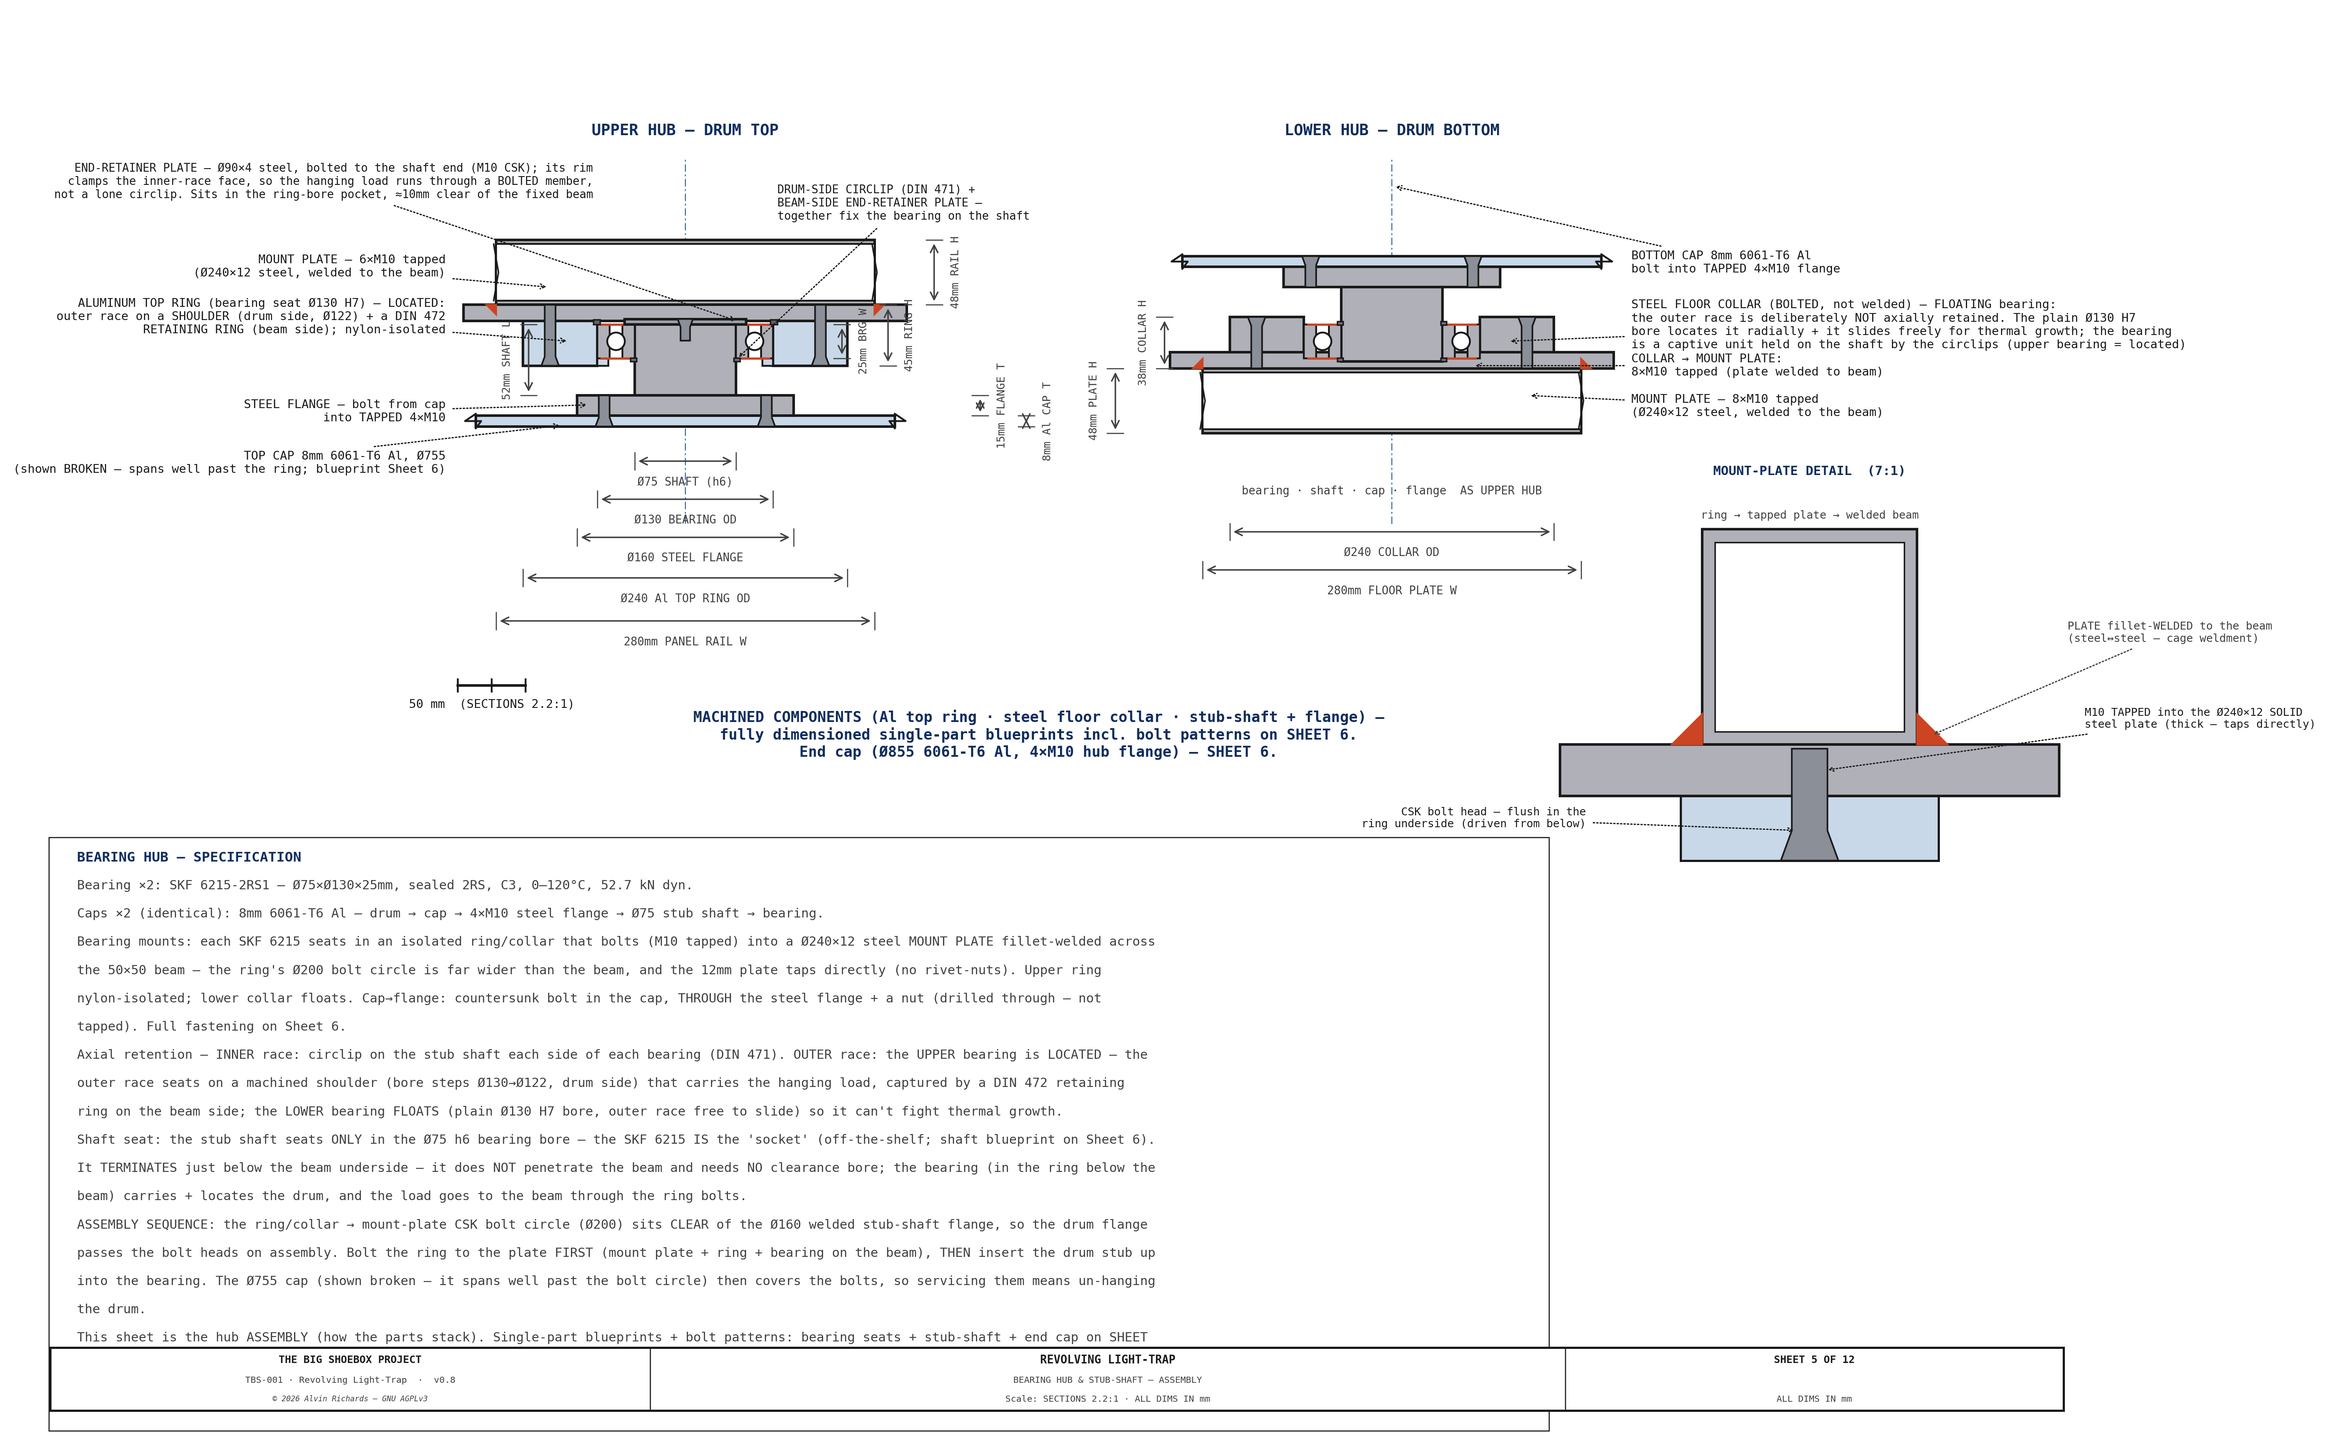
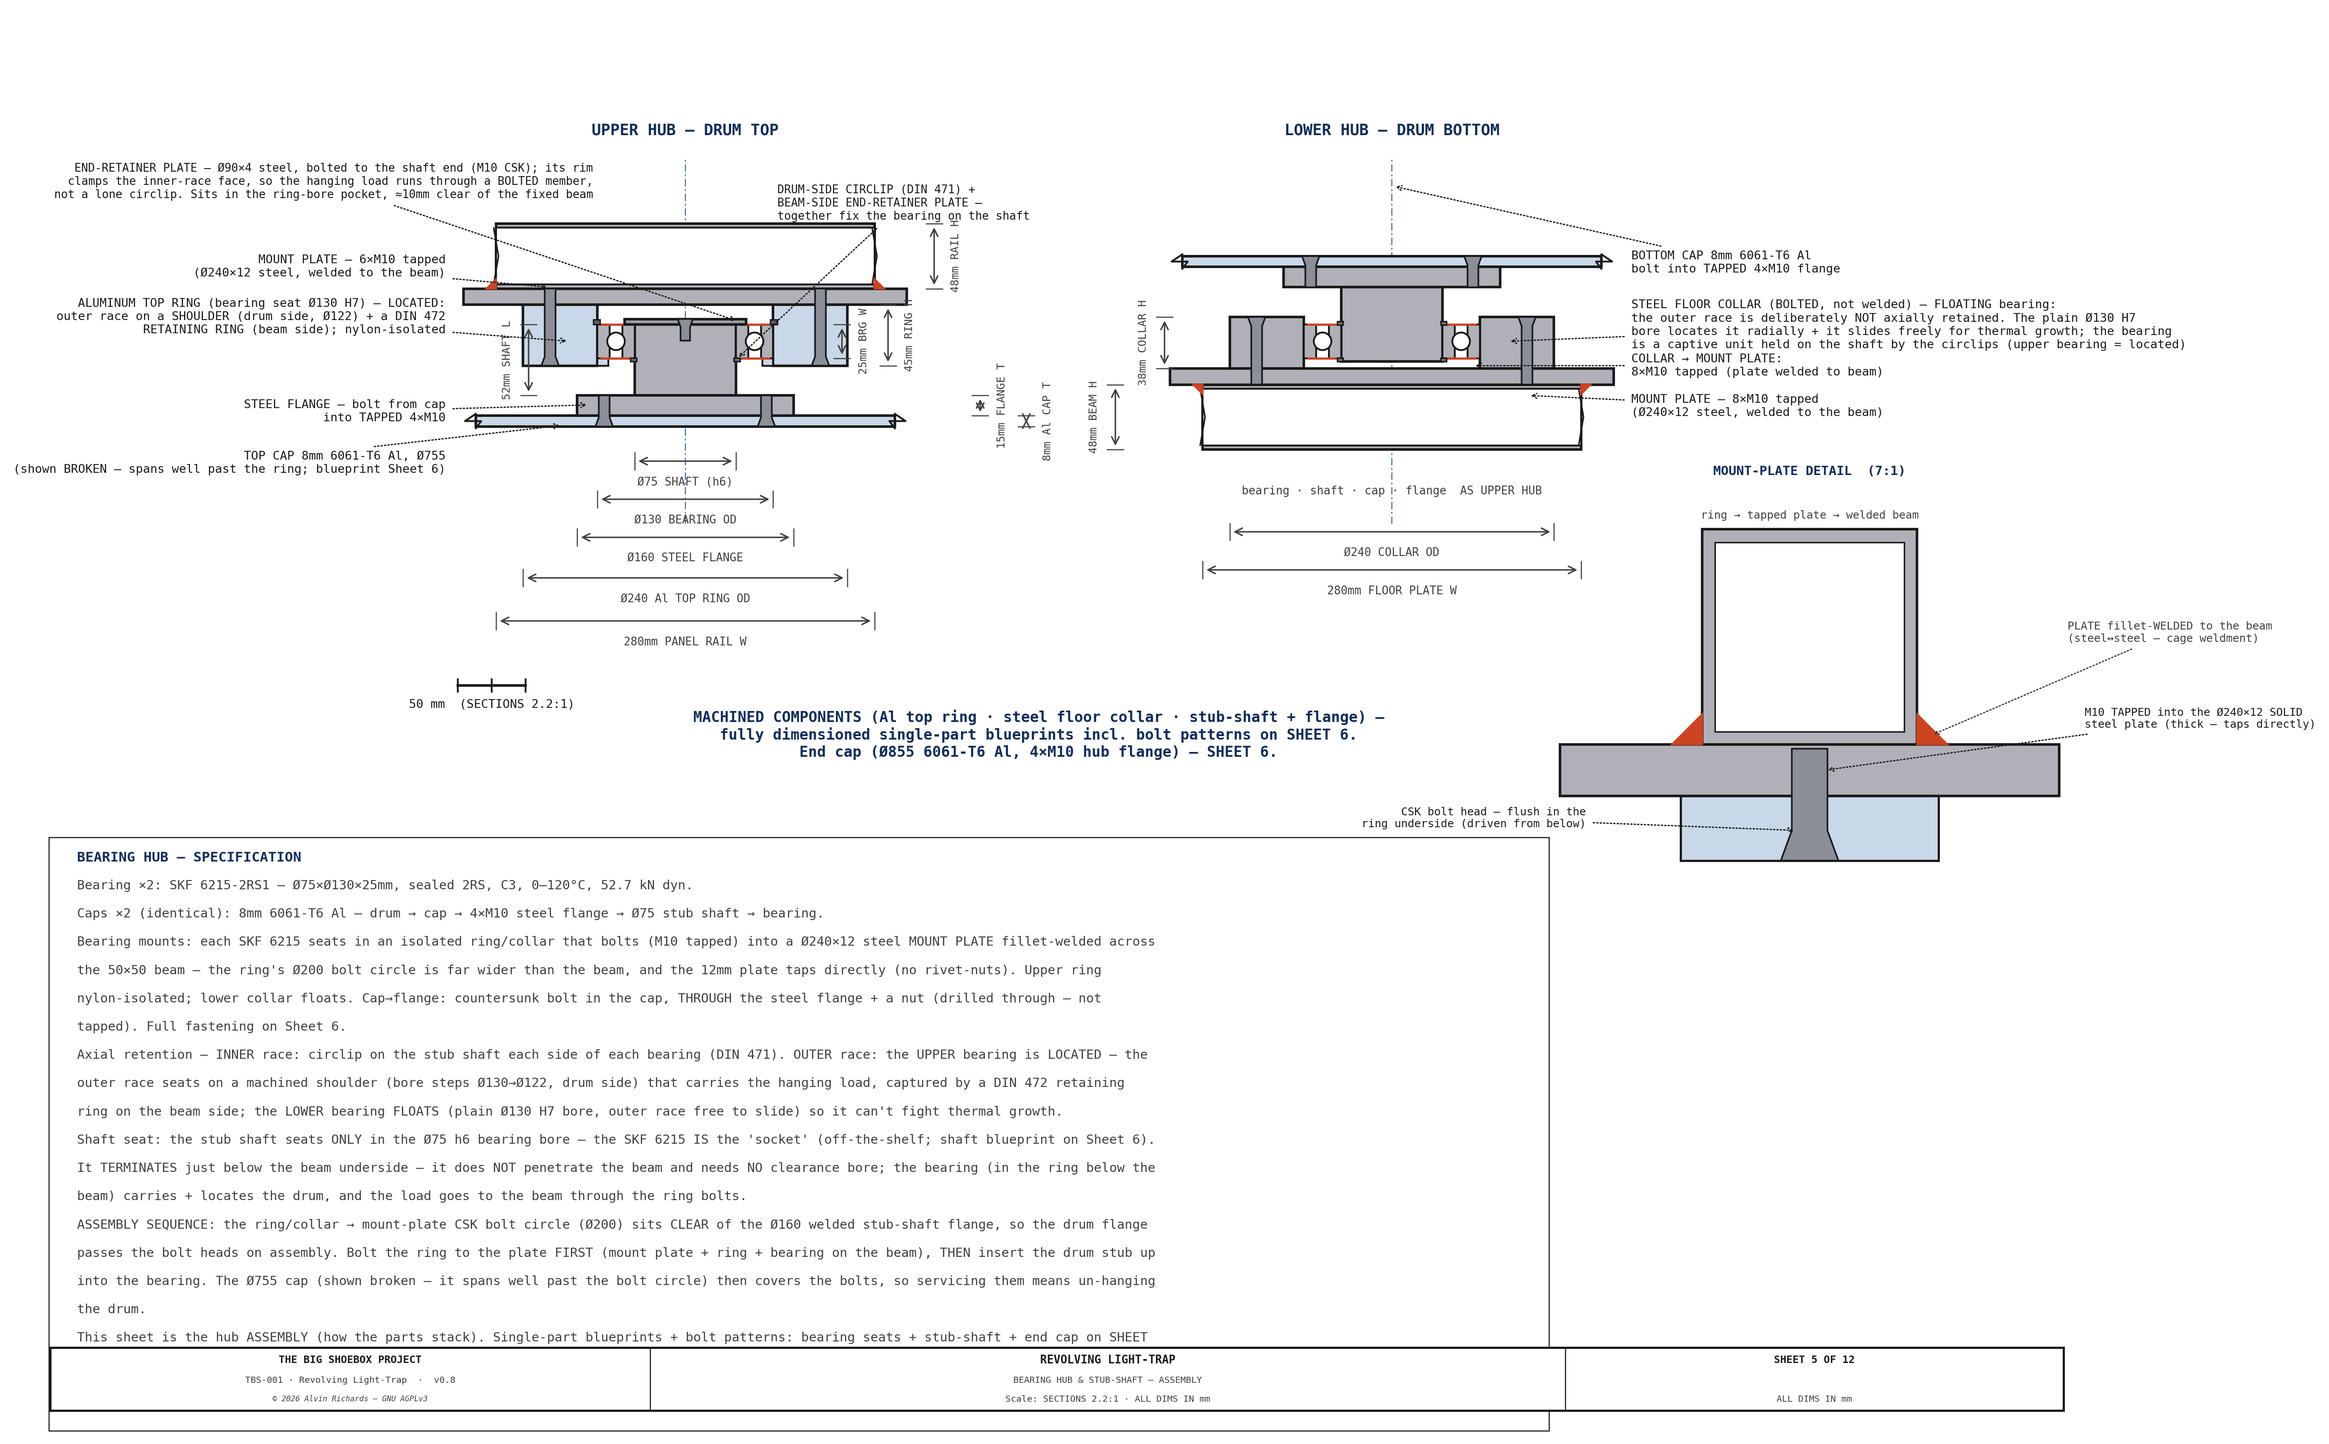
lighttrap: surface-mount hub ring/collar on the mount plate (Sheet 5); brush on drum outer face + schematic scale label (Sheet 12)

Changed region(s): [[0.1871, 0.1555, 0.4054, 0.2488], [0.499, 0.2177, 0.7173, 0.311]]

diff --git a/src/generators/generate_lighttrap_diagram.py b/src/generators/generate_lighttrap_diagram.py
@@ -862,28 +862,29 @@ def draw_sheet5():                              # Sheet 5 — bearing hub
                 draw_rect(ax, lx, -18 * SC, 8 * SC, 18 * SC - bw, fc=C_ALUM, lw=1.0, zorder=6)   # shoulder lip
                 rx0 = min(cx + g * (ro - 2 * SC), cx + g * (ro + 3 * SC))
                 draw_rect(ax, rx0, bw, 5 * SC, 3.5 * SC, fc="#606068", lw=0.8, zorder=8)          # DIN 472 retaining ring
-        # axle beam — HOLLOW 100×50×3 RHS shown in LONGITUDINAL section: solid near + far 3mm
-        # walls with the hollow bore VOID between them (white). It sits on the ring's beam-side face,
-        # 5mm clear above the shaft top — the shaft never touches it (see the GAP dimension).
-        zr0, zr1 = rtop * s, (rtop + 48 * SC) * s
-        _bz0, _bz1 = min(zr0, zr1), max(zr0, zr1)
+        # Ø240×12 SOLID steel MOUNT PLATE — the ring/collar bolts to THIS (its Ø200 bolt circle is far
+        # wider than the 50mm beam) and it is fillet-welded to the beam, so the stack is ring/collar →
+        # PLATE → beam: the ring/collar (and its bearing) sit SURFACE-mounted ON the plate, NOT sunk into
+        # it. The plate fills the gap between the ring's beam-side face and the beam. 12mm ≈ 4× the wall.
         _bw = LT_FRAME_T * SC                                                # drawn wall thickness
+        _pt = 4 * _bw                                                        # plate thickness (Ø240×12)
+        _rface = rtop * s                                                    # ring/collar beam-side face (bolting datum)
         _bx0, _bwd = cx - 140 * SC, 280 * SC
+        draw_rect(ax, _bx0 - 24 * SC, min(_rface, _rface + _pt * s), _bwd + 48 * SC, _pt,
+                  fc=C_STEEL, lw=1.4, zorder=5)                                                  # mount plate, ON the ring face
+        # axle beam — HOLLOW 50×50×3 RHS in LONGITUDINAL section (solid near+far walls + hollow void),
+        # placed BEYOND the plate so the plate separates it from the ring/collar (shaft never touches it).
+        zr0, zr1 = _rface + _pt * s, _rface + (_pt + 48 * SC) * s
+        _bz0, _bz1 = min(zr0, zr1), max(zr0, zr1)
         draw_rect(ax, _bx0, _bz0, _bwd, _bz1 - _bz0, fc=C_STEEL, lw=1.4, zorder=4)               # outer (walls)
         draw_rect(ax, _bx0, _bz0 + _bw, _bwd, (_bz1 - _bz0) - 2 * _bw, fc=BG, lw=1.0, zorder=5)  # HOLLOW bore (void)
         for _bx in (_bx0, _bx0 + _bwd):                                      # break marks — beam continues past crop
             ax.plot([_bx - 4, _bx + 4, _bx - 4], [_bz0 + _bw, (_bz0 + _bz1) / 2, _bz1 - _bw],
                     color=C_OUT, lw=0.8, zorder=7, solid_capstyle="round")
-        # Ø240×12 SOLID steel MOUNT PLATE fillet-welded across the beam's ring-side face — the ring
-        # bolts tap into THIS (its Ø200 bolt circle is far wider than the 50mm beam). 12mm ≈ 4× the wall.
-        _pt = 4 * _bw
-        _rf = _bz0 if up else _bz1                                           # beam face on the RING side (nearest the shaft)
-        _pz0 = _rf - _pt if up else _rf                                      # plate sits ON that face, extending toward the ring
-        draw_rect(ax, _bx0 - 24 * SC, _pz0, _bwd + 48 * SC, _pt, fc=C_STEEL, lw=1.4, zorder=5)
-        _wleg = -7 * SC if up else 7 * SC                                    # fillet leg points from the ring face into the plate
-        for _wx in (_bx0, _bx0 + _bwd):                                      # fillet welds plate↔beam (both sides)
+        _wj = _rface + _pt * s                                               # plate↔beam junction (weld)
+        for _wx in (_bx0, _bx0 + _bwd):                                      # fillet welds plate↔beam (both edges)
             _wd = -1 if _wx == _bx0 else 1
-            ax.add_patch(mpatches.Polygon([(_wx, _rf), (_wx + _wd * 7 * SC, _rf), (_wx, _rf + _wleg)],
+            ax.add_patch(mpatches.Polygon([(_wx, _wj), (_wx + _wd * 7 * SC, _wj), (_wx, _wj + 7 * SC * s)],
                                           closed=True, fc="#CC4422", ec="#CC4422", zorder=8))
         # Al drum cap (full Ø755 — shown BROKEN; it spans well past the ring bolts) + stub-shaft flange
         CAPW = 155 * SC
@@ -905,7 +906,7 @@ def draw_sheet5():                              # Sheet 5 — bearing hub
         # enough to tap directly, and it, not the thin beam wall, carries the Ø200 bolt circle).
         for g in (-1, 1):
             ring_far = -18 * SC * s                    # ring face away from the plate (head bears here)
-            wnz = rtop * s                             # into the mount plate on the beam's ring-side face
+            wnz = rtop * s + _pt * s                    # through the ring, TAPPED into the Ø240×12 mount plate
             draw_bolt(ax, cx + g * LT_RING_BOLT_PCD / 2 * SC, (ring_far + wnz) / 2, abs(wnz - ring_far),
                       d=8 * SC, head=int(-s), end="tapped", csk=True, zb=9)
             # DIN 471 EXTERNAL circlip(s) — seated in the Ø72 shaft groove, projecting OUTWARD past the
@@ -953,7 +954,7 @@ def draw_sheet5():                              # Sheet 5 — bearing hub
                right=True, font=FONT)
     draw_dim_v(ax, UX + 330, -18 * SC, 27 * SC, "45mm RING H", offset=44, fs=6.0,
                right=True, font=FONT)
-    draw_dim_v(ax, UX + 405, 27 * SC, 75 * SC, "48mm RAIL H", offset=44, fs=6.0,
+    draw_dim_v(ax, UX + 405, 39 * SC, 87 * SC, "48mm RAIL H", offset=44, fs=6.0,
                right=True, font=FONT)
     draw_dim_v(ax, UX + 480, -55 * SC, -40 * SC, "15mm FLANGE T", offset=44,
                fs=6.0, right=True, font=FONT)
@@ -988,7 +989,7 @@ def draw_sheet5():                              # Sheet 5 — bearing hub
                offset=46, fs=6.2, above=False, font=FONT)
     draw_dim_v(ax, LX - HALF - 40, -20 * SC, 18 * SC, "38mm COLLAR H", offset=44,
                fs=6.0, font=FONT)
-    draw_dim_v(ax, LX - HALF - 120, -68 * SC, -20 * SC, "48mm PLATE H", offset=44,
+    draw_dim_v(ax, LX - HALF - 120, -80 * SC, -32 * SC, "48mm BEAM H", offset=44,
                fs=6.0, font=FONT)
     ax.text(LX, -235, "bearing · shaft · cap · flange  AS UPPER HUB", ha="center",
             va="top", fontsize=6.2, color=C_DIM, **FONT, zorder=15)
@@ -1942,7 +1943,7 @@ def draw_sheet10():
                offset=14, fs=6.0, above=False, font=FONT)
     draw_dim_h(ax, 0, HOR_, -LT_CAP_TOP_T - 135, f"R{HOR_:.0f} — B: fixed housing rail (Ø{DRUM_D})",
                offset=14, fs=6.0, above=False, font=FONT)
-    draw_dim_v(ax, HOR_ + 55, LT_LAP_H / 2, Z_BEAM0 - LT_LAP_H / 2,
+    draw_dim_v(ax, HOR_ + 65, LT_LAP_H / 2, Z_BEAM0 - LT_LAP_H / 2,
                f"{Z_BEAM0 - LT_LAP_H:.0f}mm — A→B joint rise\n(drum joint at cap · housing joint at beam)",
                offset=38, fs=6.0, right=True, font=FONT)
     draw_dim_h(ax, HOR_, POST_R0, -55, f"{POST_R0 - HOR_:.0f}mm — fixed housing outer skin → corner post",
@@ -2101,8 +2102,8 @@ def draw_sheet11():
 
 
 def draw_sheet12():
-    # Two seal cross-sections pulled off Sheet 7 and drawn large (1.5:1) so the
-    # brush/neoprene geometry is easy to read.
+    # Top-end seal cross-section pulled off Sheet 7 and drawn large + schematic (radial gap
+    # exaggerated) so the neoprene/brush seal path is easy to read; not a true single scale.
     X_LO, X_HI, Z_LO, Z_HI = 120, 1500, -360, 1000
     FIG_W = 15.0
     FIG_H = FIG_W * (Z_HI - Z_LO) / (X_HI - X_LO)
@@ -2121,7 +2122,7 @@ def draw_sheet12():
     otx, otz = 700, 560
     def TX(mm): return otx + S * mm
     def TZ(mm): return otz + S * mm
-    ax.text(TX(0), TZ(230), "TOP-END LIGHT PATH  (axial section · 1.5:1)\ngap CAPPED at top · cap ↔ frame neoprene seal · bottom identical",
+    ax.text(TX(0), TZ(230), "TOP-END LIGHT PATH  (axial section · schematic — radial gap exaggerated)\ngap CAPPED at top · cap ↔ frame neoprene seal · bottom identical",
             ha="center", va="bottom", fontsize=8.5, color=TITLE_COL, fontweight="bold", **FONT, zorder=15)
     draw_rect(ax, TX(-22), TZ(-175), S * 12, S * 205, fc=C_LT_DRUM, lw=1.2, zorder=5)   # drum shell (rotating)
     draw_rect(ax, TX(36), TZ(-175), S * 14, S * 235, fc="#DDE4EC", lw=1.2, zorder=5)    # housing wall (fixed)
@@ -2130,9 +2131,11 @@ def draw_sheet12():
     draw_rect(ax, TX(-88), TZ(28), S * 122, S * 18, fc=C_GASKT, lw=1.0, zorder=7)       # neoprene wiper — caps the gap
     ax.plot([TX(-88), TX(34)], [TZ(28), TZ(28)], color="#8A5A2B", lw=2.6, zorder=8)     # PSA adhesive bond: neoprene → rotating drum cap
     ax.plot([TX(-40), TX(34)], [TZ(46), TZ(46)], color="#B03030", lw=1.4, ls=(0, (2, 2)), zorder=8)  # wiping contact: free edge sweeps the fixed frame plate
-    for zz in range(-120, -66, 8):                                                      # brush (running-gap seal), lower
-        ax.plot([TX(-10), TX(32)], [TZ(zz), TZ(zz + 5)], color="#222", lw=0.6, zorder=6)
-    draw_rect(ax, TX(-16), TZ(-132), S * 6, S * 70, fc="#A8763A", lw=0.5, zorder=6)     # brush holder (bronze)
+    # running-gap brush: holder BONDED to the drum's OUTER (gap-facing) surface and protruding INTO the
+    # gap; bristles lay across the gap onto the fixed housing bore (circumferential seal — see Sheet 4).
+    draw_rect(ax, TX(-10), TZ(-132), S * 6, S * 70, fc="#A8763A", lw=0.5, zorder=6)     # brush holder (bronze) on the drum OD
+    for zz in range(-120, -66, 8):                                                      # bristles → fixed housing
+        ax.plot([TX(-4), TX(32)], [TZ(zz), TZ(zz + 5)], color="#222", lw=0.6, zorder=6)
     ax.annotate("", xy=(TX(13), TZ(24)), xytext=(TX(13), TZ(-165)),                     # daylight ray UP the gap …
                 arrowprops=dict(arrowstyle="-|>", color="#E8A800", lw=1.8), zorder=8)
     for s1, s2 in (((-11, 26), (11, 40)), ((-11, 40), (11, 26))):                       # … killed at the seal (red ✗)
@@ -2151,13 +2154,13 @@ def draw_sheet12():
         "TOP-END SEAL DETAIL  (enlarged from Sheet 7)",
         "Top + bottom axial ends: 12mm closed-cell neoprene wiper strips secured by their own PSA adhesive back (McMaster 93855K6) BONDED to the rotating drum cap face + a silicone bead along the seam; the strip's free edge sweeps the fixed frame plate. This CAPS the running gap so a ray can't bypass the brushes over the top/bottom. The neoprene seals the gap AXIALLY; together with the brushes (circumferential) there is no straight-through or over-the-top light path.",
         f"The running-gap brush radial section (the {LT_WIPER_N}× #4 strip brushes flange-riveted to the drum OD) is the HOLDER PROFILE inset on Sheet 4 — not duplicated here.",
-        "SCALE 1.5:1 · ALL DIMS IN mm · see Sheet 7 for the rotation/light-path plans A–C.",
+        "NOT TO SCALE — the radial running gap is exaggerated so the seal path reads clearly (a true 13mm gap would be a hairline here); vertical members ≈ 1.5×. See Sheet 4 for the to-scale (7:1) holder profile and Sheet 7 for the rotation/light-path plans A–C.",
     ]
-    draw_notes(ax, notes, X_LO + 40, 150, 20, fs=7, font=FONT, width=1340, wrap=118, title_color=TITLE_COL)
+    draw_notes(ax, notes, X_LO + 40, 150, 20, fs=7, font=FONT, width=1200, wrap=118, title_color=TITLE_COL)
 
     title_block(ax, "SHEET 12 OF 12", drawing_title="REVOLVING LIGHT-TRAP",
                 subtitle="SEAL DETAIL — TOP-END NEOPRENE (enlarged)",
-                scale_note="1.5:1 · ALL DIMS IN mm",
+                scale_note="SCHEMATIC (gap exaggerated) · ALL DIMS IN mm",
                 doc_id="TBS-001 · Revolving Light-Trap", height=0.045, scale=0.75)
     fig.savefig(os.path.join(DIAGRAMS_DIR, "lighttrap-sheet12.png"),
                 dpi=DIAGRAM_DPI, bbox_inches="tight", facecolor=BG)

diff --git a/RELEASE.md b/RELEASE.md
@@ -173,6 +173,16 @@ file** — a release must not ship without a changelog entry:
   **Ø240 bearing-seat ring (upper, Al) / collar (lower, steel)** around each SKF 6215; added them so the elevation
   now shows the same hub stack as Sheet 1/5 — **cap → Ø160 flange → Ø75 shaft → bearing → Ø240 ring/collar → mount
   plate → beam** (beam full-span, the intended orthogonal-view difference from Sheet 1). *(In progress.)*
+  **Review fixes (Sheet 5 hub plate seating + Sheet 12 brush/scale).** (1) **Sheet 5 hub** — the Ø240×12 mount
+  plate was drawn *overlapping* the bearing ring/collar (and the SKF 6215 sank into it), because when the plate
+  was added the beam/collar Z wasn't shifted to make room. Re-stacked as **ring/collar → PLATE → beam** so the
+  ring/collar (and bearing) sit SURFACE-mounted on the plate, with the beam moved beyond it (both hubs); the
+  ring→plate bolt now taps through into the plate, and the beam-height dims were repositioned. (2) **Sheet 12
+  brush** — the running-gap brush holder was embedded in the drum shell; moved it onto the drum's **outer
+  (gap-facing) surface, protruding into the gap** with bristles onto the fixed housing (matches Sheet 4).
+  (3) **Sheet 12 scale** — the radial gap is exaggerated for clarity, so the misleading "1.5:1" label was
+  changed to **SCHEMATIC (gap exaggerated)**; the to-scale running-gap section is Sheet 4's 7:1 holder profile.
+  *(In progress.)*
 - **Film-plane corner wall-mounts + IBC foot ↔ tray clash (branch `film-plane-left-brackets`).** Resolved
   the film-plane left-bracket + tray/IBC cluster. **Tray clash:** the two FRONT IBC floor feet were shifted
   outboard (derived from the tray edge) so their plate + anchors clear the processing-tray basin — the plate
